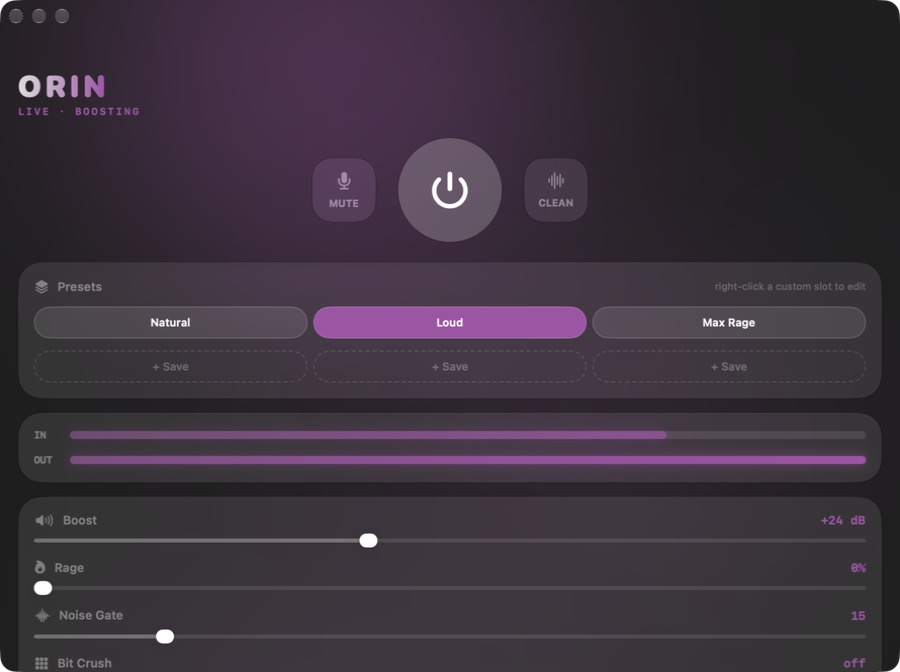
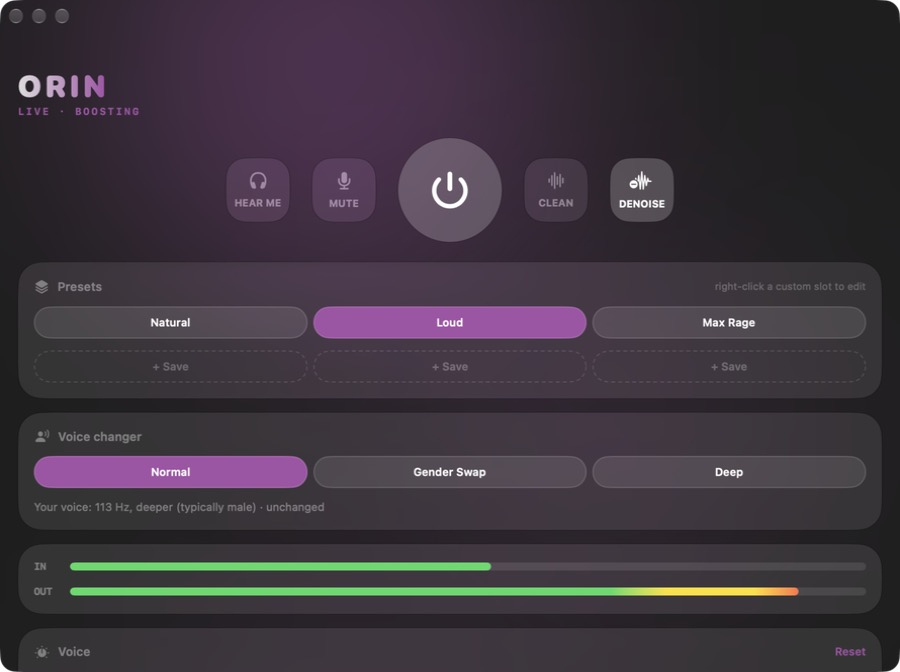
Orin 1.1: Denoise, voice changer, Hear Me and level meters

diff --git a/README.md b/README.md
@@ -20,14 +20,33 @@
 
 ## What it does
 
+### Make your voice louder
+
 - Boosts your voice by up to +60 dB with one click.
 - Rage adds extra gain on top of the boost, for a loud, distorted sound when you want it.
-- The noise gate cuts fan hum and keyboard clicks while you're not talking.
 - Bit crush gives you a lo-fi, radio-style voice.
 - A 6-band equalizer covers 100 Hz to 12 kHz, so you can add bass or clear up muddy audio.
-- It comes with three presets (Natural, Loud and Max Rage), and you can save three of your own.
+- Green, yellow and red level meters show how loud you are, so you can see when you're about to distort.
+
+### Get rid of background noise
+
+- Denoise removes fan hum, traffic, keyboard clicks, coughs and heavy breathing. It only lets your actual voice through and goes silent between words, without cutting off the start of a sentence.
+- It adjusts to your room by itself, so there's nothing to set up.
+- The noise gate is still there if you want a simple, manual one.
+
+### Change how you sound
+
+- Gender Swap works out whether your voice is lower or higher and shifts it the other way, keeping the natural character of a real voice.
+- Deep lowers your voice and gives it a bigger, more masculine sound.
+- Both follow your voice as you talk, so you don't need to set your pitch.
+
+### Stay in control
+
+- Hear Me plays your voice back to you exactly as others hear it. Wear headphones when you use it.
 - Mute silences your mic straight away. Clean switches the boost off without stopping Orin.
-- The O in your menu bar lets you turn Orin on or off, mute, change the boost and switch presets without opening the window.
+- Presets: Natural is your voice with no effects, and Loud and Max Rage are ready to go. You can save three of your own.
+- Reset buttons put the voice controls and the equalizer back to zero.
+- The O in your menu bar lets you turn Orin on or off, mute, change the boost, pick a voice and switch presets without opening the window.
 - It follows your Mac's light or dark mode and your accent colour.
 
 ## Install
@@ -64,9 +83,9 @@ If macOS says Orin can't be opened, right-click Orin in Applications, choose Ope
 
 1. Click the power button in Orin, or the O in your menu bar.
 2. In Discord, WhatsApp, Zoom or whatever app you're using, set the microphone (sometimes called input device) to BlackHole 2ch.
-3. Start talking. You can change the boost, pick a preset or adjust the equalizer while you go.
+3. Start talking. You can change the boost, pick a preset, turn on Denoise or try a different voice while you go.
 
-> If you set Orin's "Send to" to your speakers, you'll hear yourself. Wear headphones or you'll get feedback.
+> Want to check how you sound? Turn on Hear Me with headphones in. With speakers you'll get feedback.
 
 ## Uninstall
 

diff --git a/PRIVACY.md b/PRIVACY.md
@@ -1,6 +1,6 @@
 # Orin privacy policy
 
-_Last updated: 15 November 2026_
+_Last updated: 16 November 2026_
 
 Orin is a microphone booster for macOS, developed by Hrishi. It works entirely on your Mac and doesn't collect anything about you.
 
@@ -8,7 +8,7 @@ Orin is a microphone booster for macOS, developed by Hrishi. It works entirely o
 
 | What | Why | Where it goes |
 |---|---|---|
-| Microphone | To boost and shape your voice as you talk | It's processed in memory and sent to the audio device you pick. It's never recorded, saved or sent anywhere else. |
+| Microphone | To boost, clean up and change your voice as you talk | It's processed in memory and sent to the audio device you pick, and to your own headphones if you turn on Hear Me. It's never recorded, saved or sent anywhere else. |
 | List of audio devices | So you can choose your mic and where to send it | Stays on your Mac |
 | Your settings and presets | So Orin remembers your boost, equalizer and saved presets | Saved in your Mac's app preferences |
 
